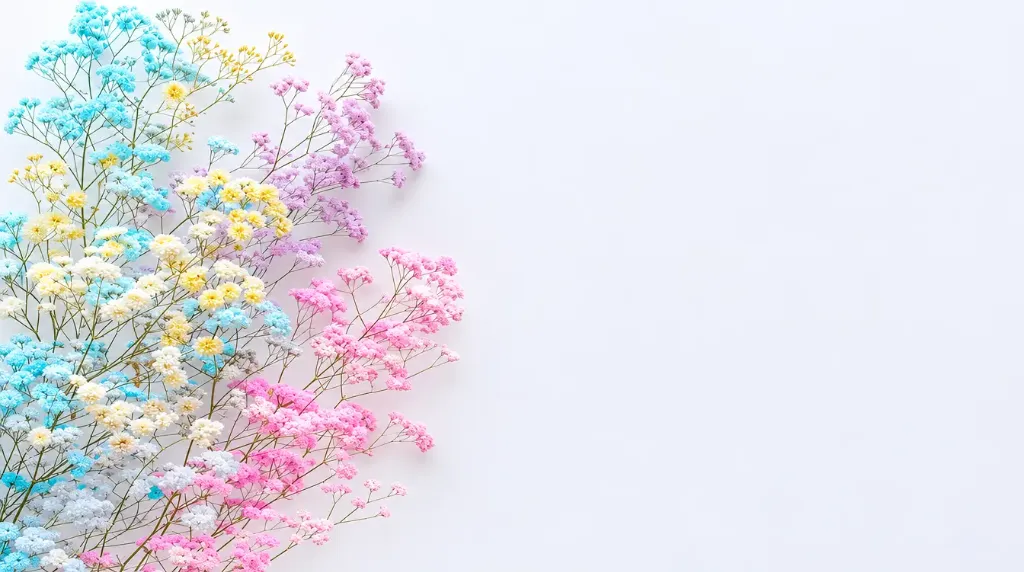
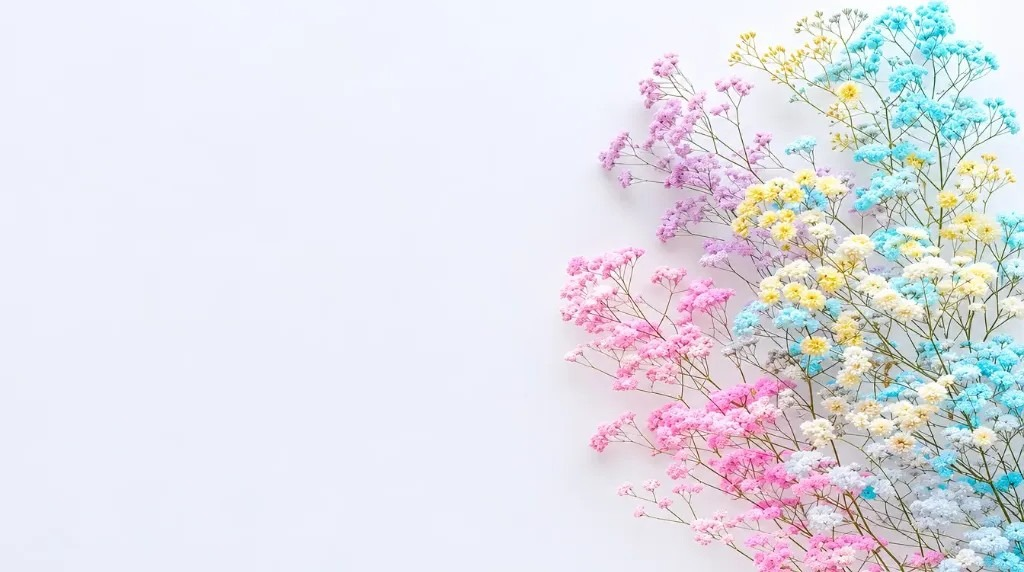
feat: use direct floral image background for Section D without transparent overlay

diff --git a/style.css b/style.css
@@ -1519,8 +1519,8 @@ html[dir="rtl"] .expertise-card__list li::before {
 ================================================================ */
 .about {
   position: relative;
-  background-color: #faf9f5;
-  background-image: linear-gradient(135deg, rgba(250, 249, 245, 0.45) 0%, rgba(250, 249, 245, 0.82) 100%), url('Asset/about-flowers-bg.webp');
+  background-color: #f7f6f8;
+  background-image: url('Asset/section-d-bg.jpg');
   background-position: center;
   background-size: cover;
   background-repeat: no-repeat;
